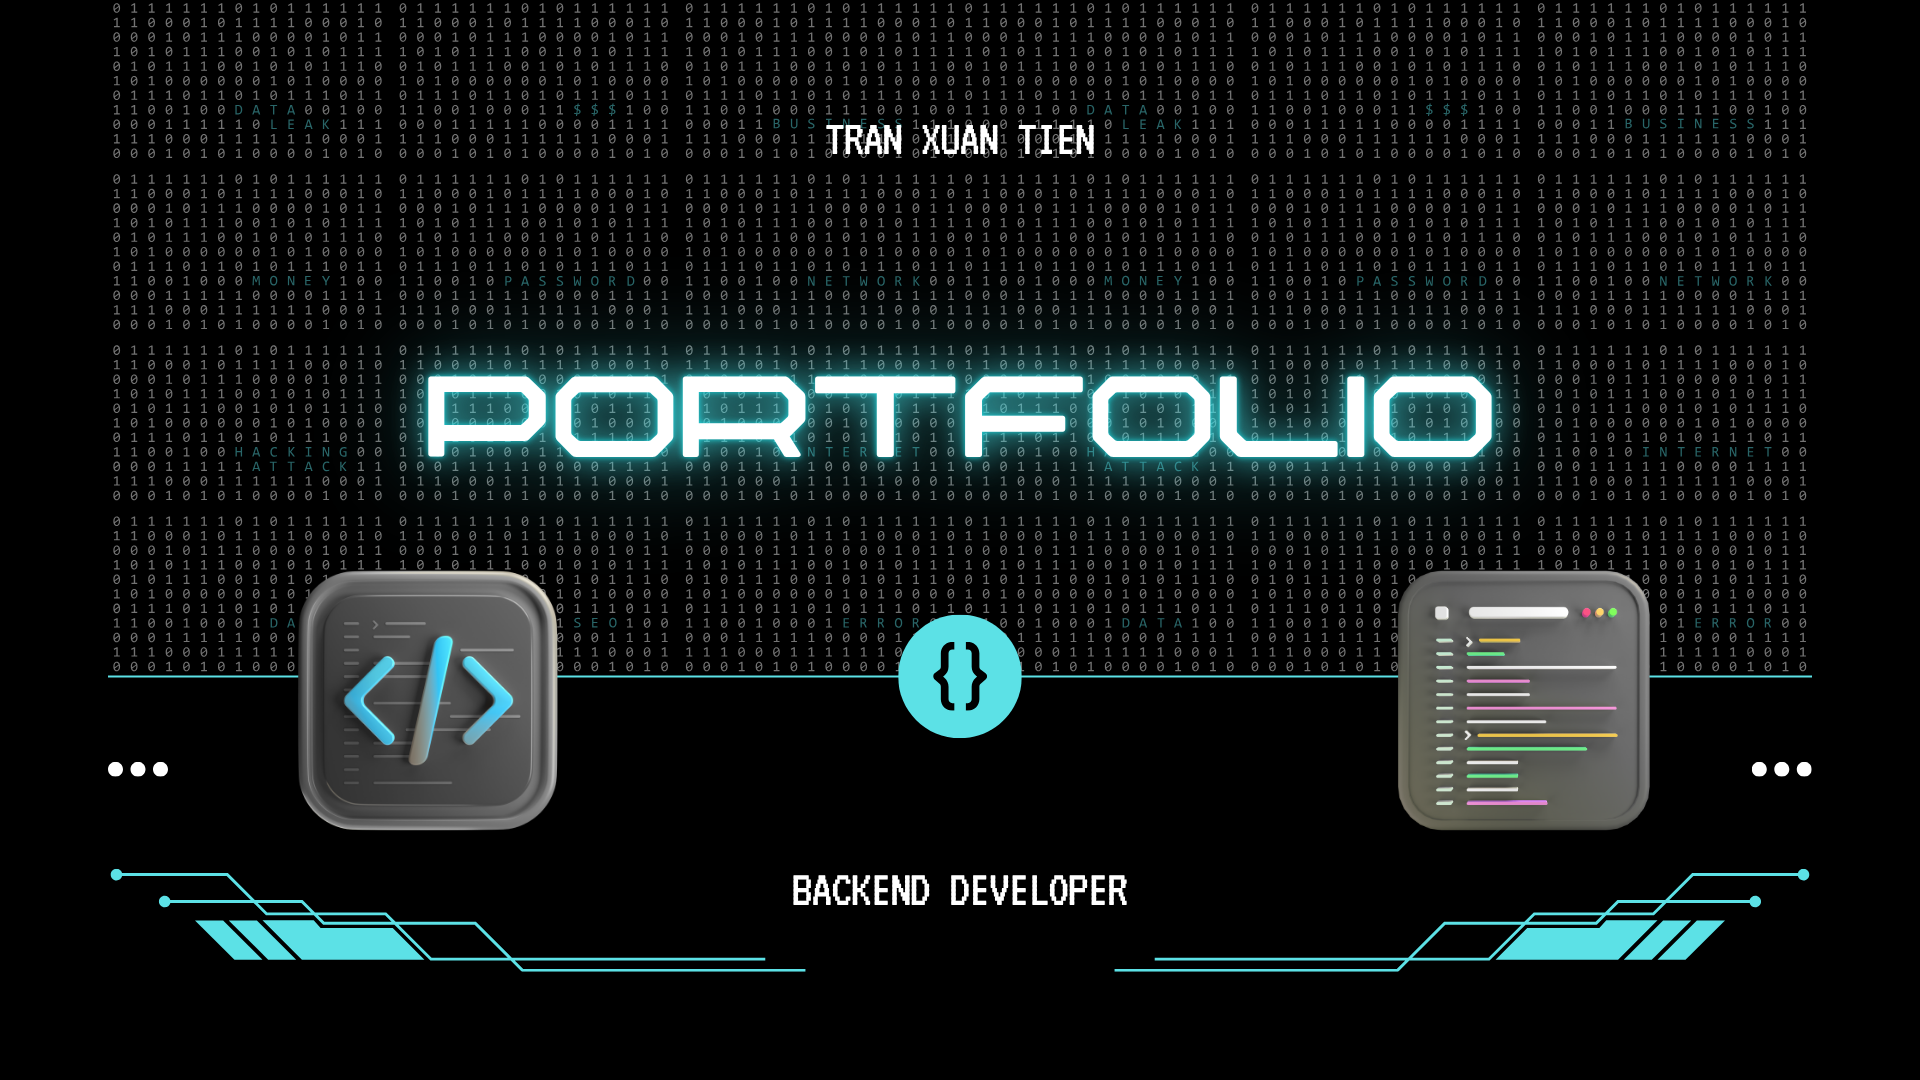
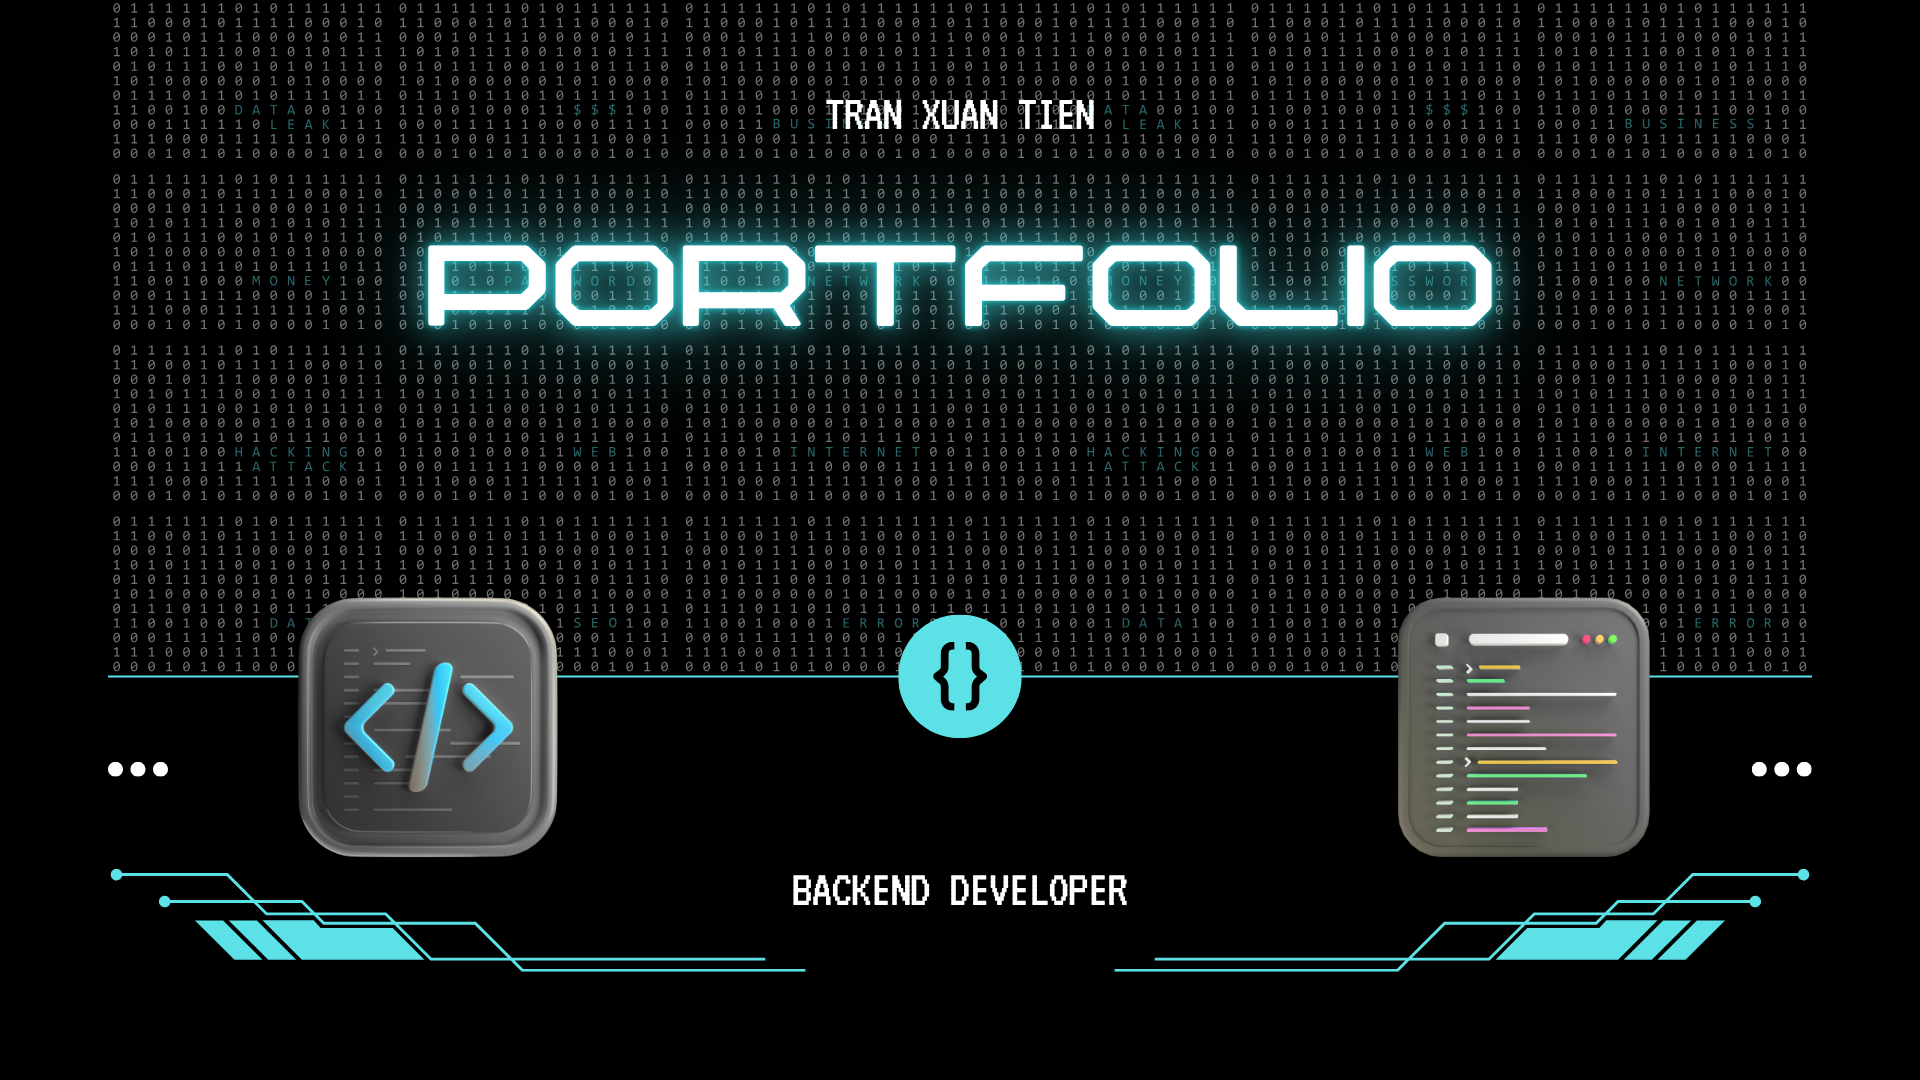
commit push new code

diff --git a/index.html b/index.html
@@ -9,7 +9,7 @@
   <meta content="" name="keywords" />
 
   <!-- Favicons -->
-  <link href="assets/img/web.png" rel="icon" />
+  <link href="assets/img/web.png" rel="icon"/>
 
   <!-- Fonts -->
   <link href="https://fonts.googleapis.com" rel="preconnect" />
@@ -54,7 +54,7 @@
     <div class="social-links text-center">
       <a href="https://www.facebook.com/tran.xuan.tien.837192/" class="facebook" target="_blank"><i
           class="bi bi-facebook"></i></a>
-      <a href="https://github.com/GaHongHacDev" class="github"><i class="bi bi-github" target="_blank"></i></a>
+      <a href="https://github.com/GaHongHacDev" class="github" target="_blank"><i class="bi bi-github" ></i></a>
       <a href="https://www.linkedin.com/in/xu%C3%A2n-ti%E1%BA%BFn-tr%E1%BA%A7n-198782305/" class="linkedin"
         target="_blank"><i class="bi bi-linkedin"></i></a>
     </div>
@@ -86,15 +86,13 @@
   <main class="main">
     <!-- Hero Section -->
     <section id="hero" class="hero section dark-background">
-      <img src="assets/img/hero-bg.png" alt="" data-aos="fade-in" class="" />
+      <img src="assets/img/hero-bg.png" alt="" data-aos="fade-up" class="" />
 
-      <div class="container" data-aos="fade-up" data-aos-delay="100">
+      <div class="container" data-aos="fade-in" data-aos-delay="100">
         <h2>Hi! Have a nice day!</h2>
         <p>
           I'm
-          <span class="typed" data-typed-items=" Tran Xuan Tien, a C# Backend Developer"></span><span
-            class="typed-cursor typed-cursor--blink" aria-hidden="true"></span><span
-            class="typed-cursor typed-cursor--blink" aria-hidden="true"></span>
+          <span class="typed" data-typed-items=" Tran Xuan Tien, a C# Backend Developer"></span>
         </p>
       </div>
     </section>
@@ -684,26 +682,27 @@
     <!-- /Contact Section -->
   </main>
 
-  <footer id="footer" class="footer position-relative light-background">
-    <div class="container">
-      <div class="copyright text-center">
-        <p>
-          © <span>Copyright</span>
-          <strong class="px-1 sitename">iPortfolio</strong>
-          <span>All Rights Reserved</span>
-        </p>
-      </div>
-      <div class="credits">
-        <!-- All the links in the footer should remain intact. -->
-        <!-- You can delete the links only if you've purchased the pro version. -->
-        <!-- Licensing information: https://bootstrapmade.com/license/ -->
-        <!-- Purchase the pro version with working PHP/AJAX contact form: [buy-url] -->
-        Designed by
-        <a href="https://bootstrapmade.com/">BootstrapMade</a> Distributed by
-        <a href="https://themewagon.com">ThemeWagon</a>
-      </div>
+<footer id="footer" class="footer position-relative light-background">
+  <div class="container">
+    <div class="copyright text-center mb-3">
+      <p>
+        © <span>Copyright</span>
+        <strong class="px-1 sitename">Tran Xuan Tien</strong>
+        <span>All Rights Reserved</span>
+      </p>
     </div>
-  </footer>
+    <div class="social-links text-center mb-3">
+      <a href="https://github.com/GaHongHacDev" target="_blank" class="bi bi-github mx-3">GitHub</a>
+      <a href="https://www.linkedin.com/in/xu%C3%A2n-ti%E1%BA%BFn-tr%E1%BA%A7n-198782305/" target="_blank" class="bi bi-linkedin mx-3">LinkedIn</a>
+      <a href="https://www.facebook.com/tran.xuan.tien.837192/" target="_blank" class="bi bi-facebook mx-3">Facebook</a>
+    </div>
+    <div class="credits text-center mb-3">
+      Designed by <strong>Tran Xuan Tien</strong>
+    </div>
+  </div>
+  <!-- Back to top button -->
+  <a href="#" class="back-to-top"><i class="bi bi-arrow-up-short"></i></a>
+</footer>
 
   <!-- Scroll Top -->
   <a href="#" id="scroll-top" class="scroll-top d-flex align-items-center justify-content-center"><i

diff --git a/assets/css/main.css b/assets/css/main.css
@@ -365,24 +365,7 @@ h6 {
 /*--------------------------------------------------------------
 # Global Footer
 --------------------------------------------------------------*/
-.footer {
-  color: var(--default-color);
-  background-color: var(--background-color);
-  font-size: 14px;
-  padding: 40px 0;
-  position: relative;
-  border-top: 1px solid color-mix(in srgb, var(--default-color), transparent 90%);
-}
 
-.footer .copyright p {
-  margin-bottom: 0;
-}
-
-.footer .credits {
-  margin-top: 4px;
-  font-size: 13px;
-  text-align: center;
-}
 
 /*--------------------------------------------------------------
 # Preloader
@@ -594,6 +577,8 @@ section,
 .hero .container {
   position: relative;
   z-index: 3;
+  top: -4rem;  
+  left: 2rem; 
 }
 
 .hero h2 {
@@ -806,6 +791,12 @@ section,
 --------------------------------------------------------------*/
 .experience .service-item {
   position: relative;
+}
+
+#experience {
+  background-color: #e3f9ff;
+  font-size: 20px;
+  font-weight: 400;
 }
 
 .experience .service-item .icon {
@@ -1063,7 +1054,6 @@ section,
 #skills {
   transition: background-color 0.3s ease;
   padding-bottom: 8rem !important;
-  border: 1px solid #040b14;
   user-select: none;
 }
 
@@ -1216,6 +1206,28 @@ h3:hover{
 }
 
 li:hover{
-  transform: translateX(5%);
+  transform: translateX(2%);
   transition: 0.5s;
+}
+
+
+#footer {
+  background-color: var(--background-color);
+  color: var(--default-color);
+  padding-top: 50px;
+  position: relative;
+}
+
+#footer .container > div {
+  margin-bottom: 20px;
+}
+
+.social-links a {
+  margin-right: 15px; 
+  color: var(--default-color);
+}
+
+
+.mb-3 {
+  margin-bottom: 30px;
 }
